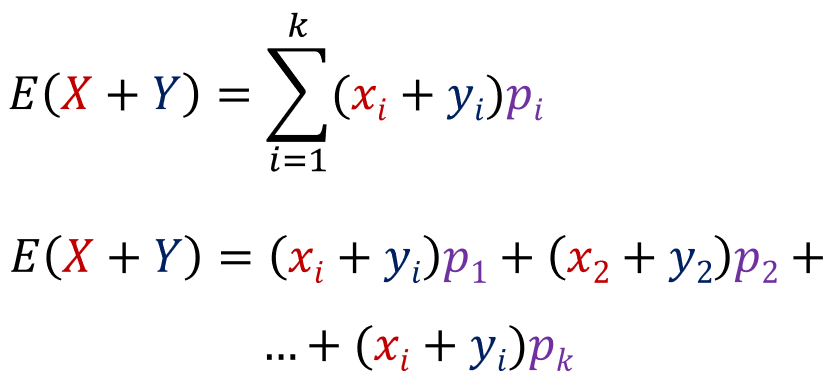
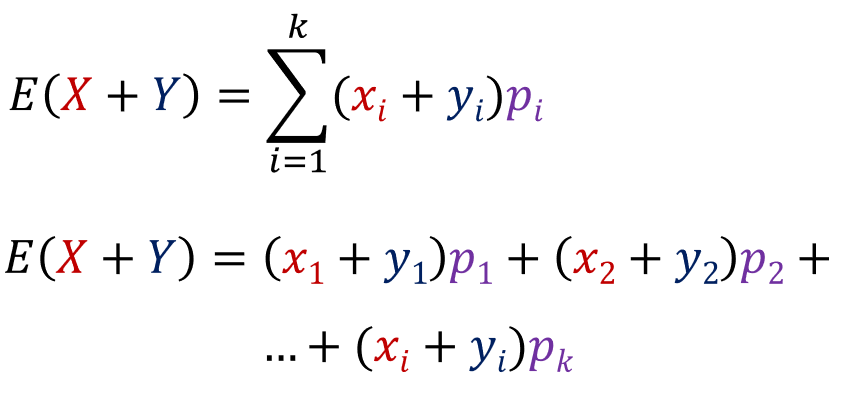
d

diff --git a/ps/mis/linearity_of_expectation.html b/ps/mis/linearity_of_expectation.html
@@ -12,6 +12,8 @@
 <img class="displayimg" src="11.PNG">
 <p class="pmain">Similarly, the expected value of <span style="color: maroon;">X</span> and <span style="color: darkblue;">Y</span> would be:</p>
 <img class="displayimg" src="12.PNG">
+<p class="pmain">We can rearrange the top equation:</p>
+<img class="displayimg" src="13.PNG">
 <hr>
 <script src="../../main.js"></script>
 </BODY>
